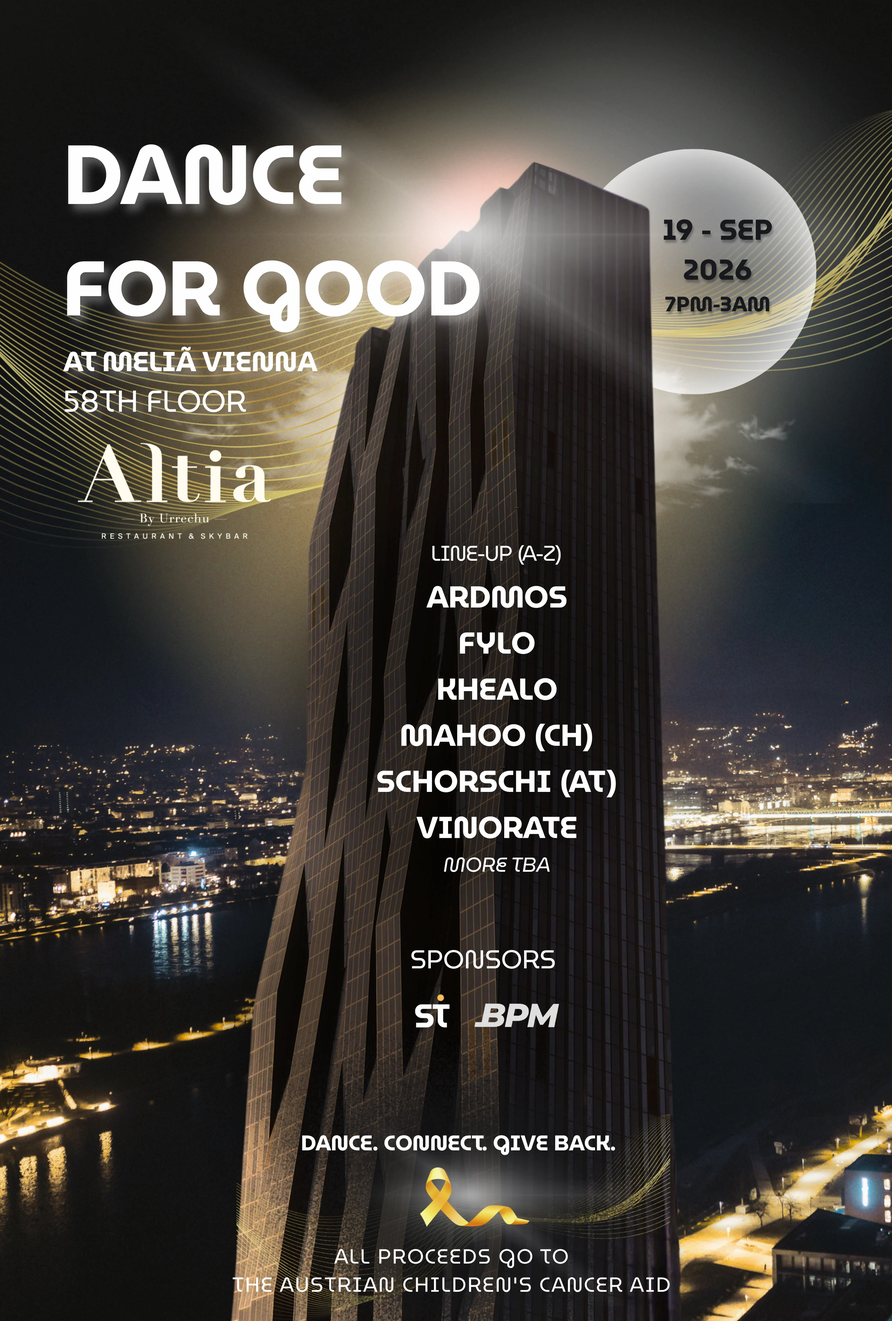
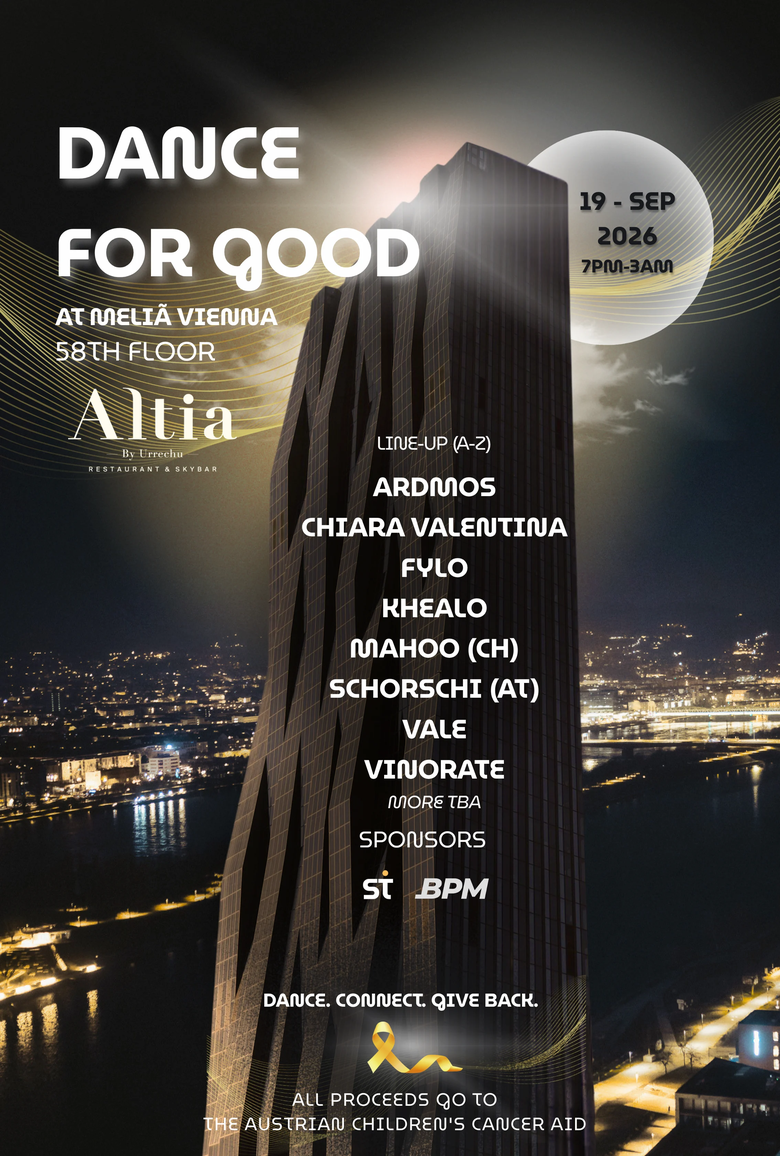
Use webp for flyer download instead of PDF

Changed region(s): [[0.3704, 0.375, 0.7407, 0.7188]]

diff --git a/index.html b/index.html
@@ -110,7 +110,7 @@
       <div class="hero-cta">
         <a href="#lineup" class="btn-gold" data-i18n="hero.cta.lineup">Line-Up entdecken</a>
         <a href="https://www.eventbrite.com/e/dance-for-good-tickets-1999052574062" class="btn-outline" target="_blank" rel="noopener" data-i18n="hero.cta.tickets">Tickets sichern</a>
-        <a href="assets/flyer-download.pdf" download="Dance-For-Good-2026-Flyer.pdf" class="btn-download" data-i18n="hero.cta.download">Flyer herunterladen</a>
+        <a href="assets/flyer-download.webp" download="Dance-For-Good-2026-Flyer.webp" class="btn-download" data-i18n="hero.cta.download">Flyer herunterladen</a>
       </div>
     </div>
 
